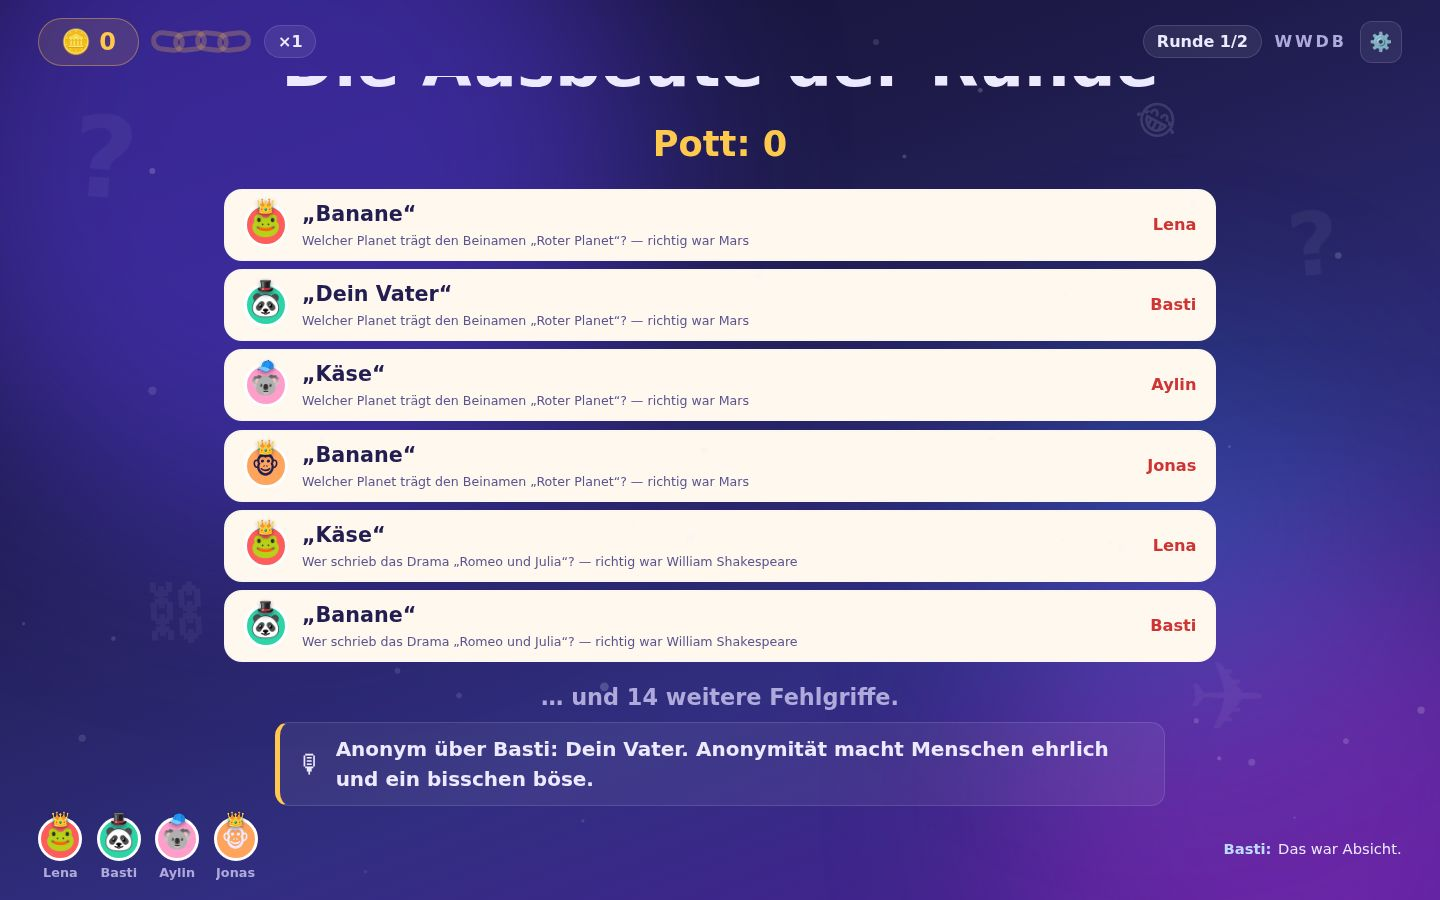
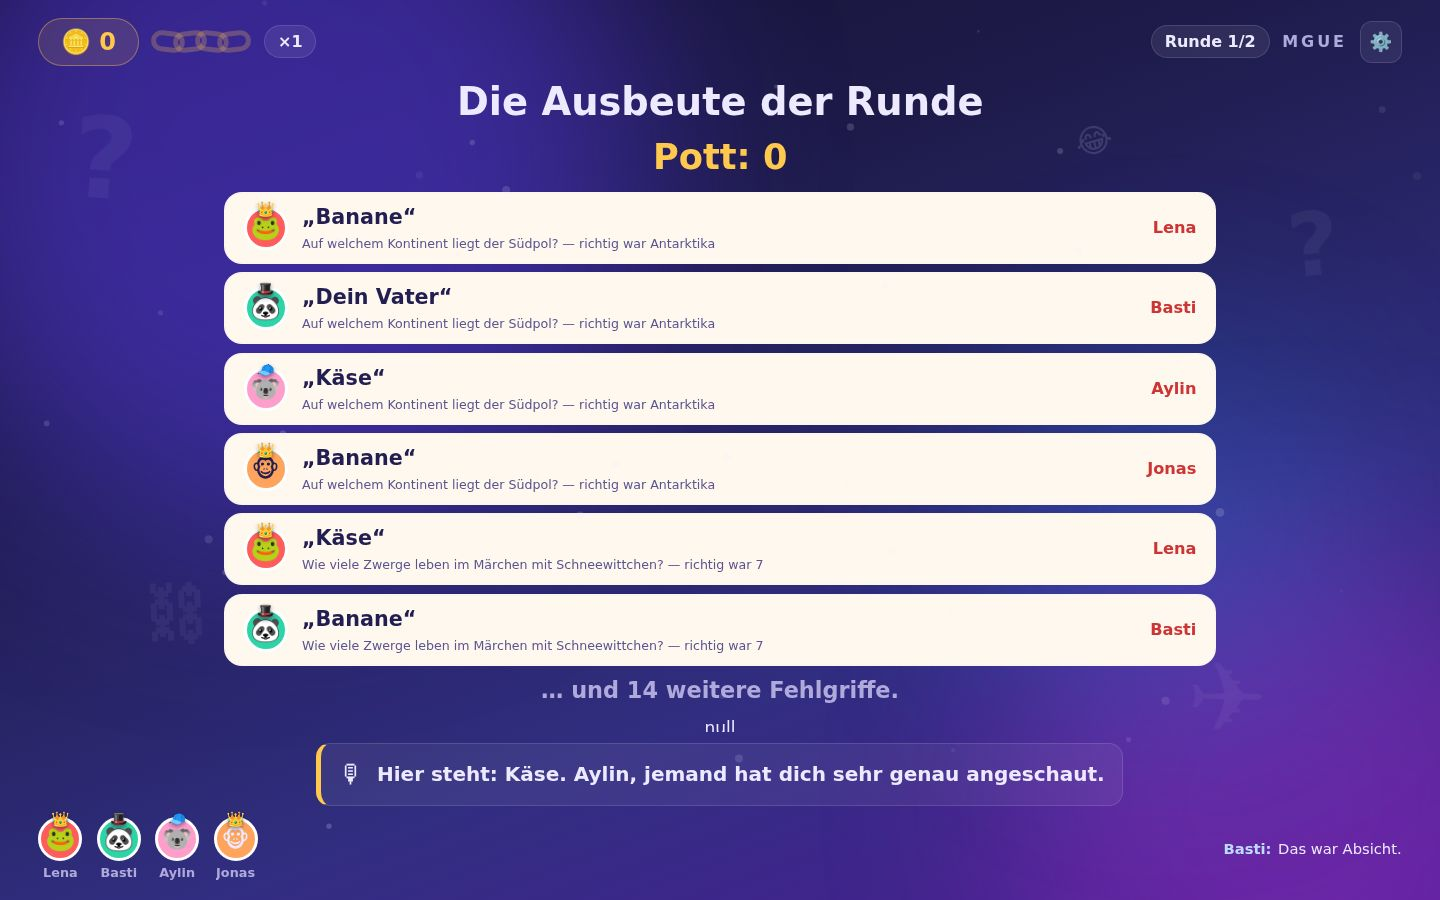
Stop a stray "null" from appearing on the big screen
scene.append() turns a null child into the literal text "null" -- el()
filters them, append() does not -- so the round recap printed "null"
under the list whenever nobody left an answer blank. The scene builds
its children into an array and sieves them now, and the browser test
fails on any "null", "undefined" or "NaN" text node anywhere on stage.

Claude-Session: https://claude.ai/code/session_01FFf3gRaLyNXhXsXRuMdJNR

Changed region(s): [[0.1562, 0.0311, 0.9375, 0.9022], [0.7812, 0.1244, 0.8125, 0.1556]]

diff --git a/scripts/browsertest.js b/scripts/browsertest.js
@@ -200,7 +200,15 @@ async function main() {
     if (seen === null) break;
     // Der Phasenverlauf ist die Landkarte: bleibt der Test hängen, steht
     // hier schwarz auf weiß, wo und seit wann.
-    if (seen !== phase) console.log(`  ${since()}  ${seen}`);
+    if (seen !== phase) {
+      console.log(`  ${since()}  ${seen}`);
+      // Ein durchgerutschtes null-Kind wird von append() zu sichtbarem Text.
+      // Auf der Leinwand fällt so etwas sofort auf — hier also auch.
+      const junk = await stage.evaluate(() => [...document.querySelectorAll('#scene, #scene *')]
+        .some((n) => [...n.childNodes].some((c) => c.nodeType === 3
+          && /^(null|undefined|NaN)$/.test(c.textContent.trim())))).catch(() => false);
+      if (junk) problems.push(`Platzhaltertext „null/undefined“ im Bühnenbild (Phase ${seen})`);
+    }
     phase = seen;
 
     if (phase === 'question' || phase === 'final_question') {

diff --git a/public/js/stage.js b/public/js/stage.js
@@ -361,7 +361,9 @@ const BUILDERS = {
     const blanks = recap.length - spoken.length;
     const show = spoken.slice(0, 6);
 
-    scene.append(
+    // scene.append() macht aus einem null-Kind brav den Text „null“ —
+    // anders als el(). Also vorher aussieben.
+    const parts = [
       el('h1', { class: 'headline small rise' }, spoken.length ? 'Die Ausbeute der Runde' : `Runde ${state.round} ist durch`),
       el('p', { class: 'potflash' }, `Pott: ${state.pot.toLocaleString('de-DE')}`),
       show.length
@@ -378,7 +380,8 @@ const BUILDERS = {
         ? el('p', { class: 'subline' }, `… und ${spoken.length - show.length} weitere Fehlgriffe.`)
         : null,
       blanks ? el('p', { class: 'subline' }, `${blanks}× wurde gar nichts geschrieben.`) : null,
-    );
+    ];
+    scene.append(...parts.filter(Boolean));
   },
 
   voting() { buildVoting(); },
